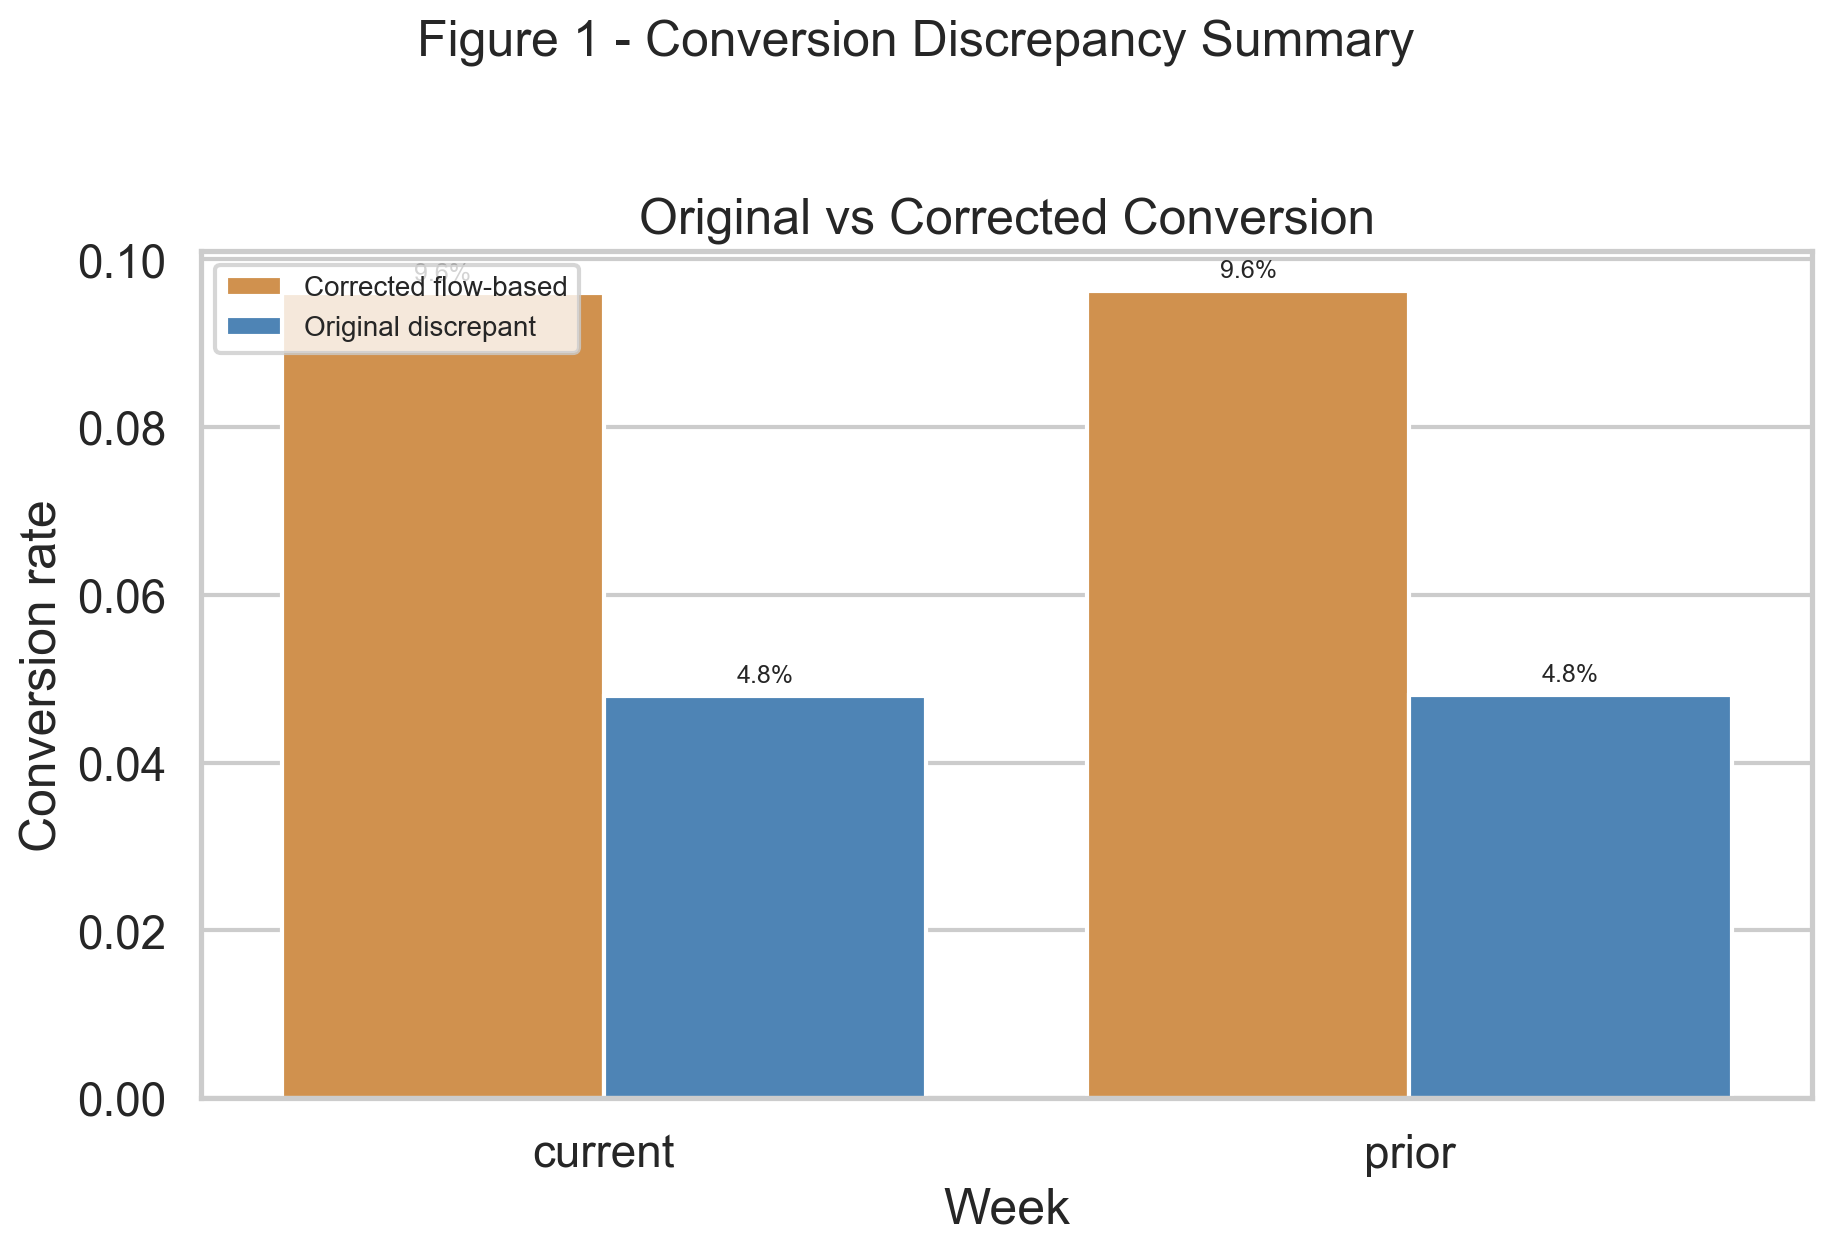
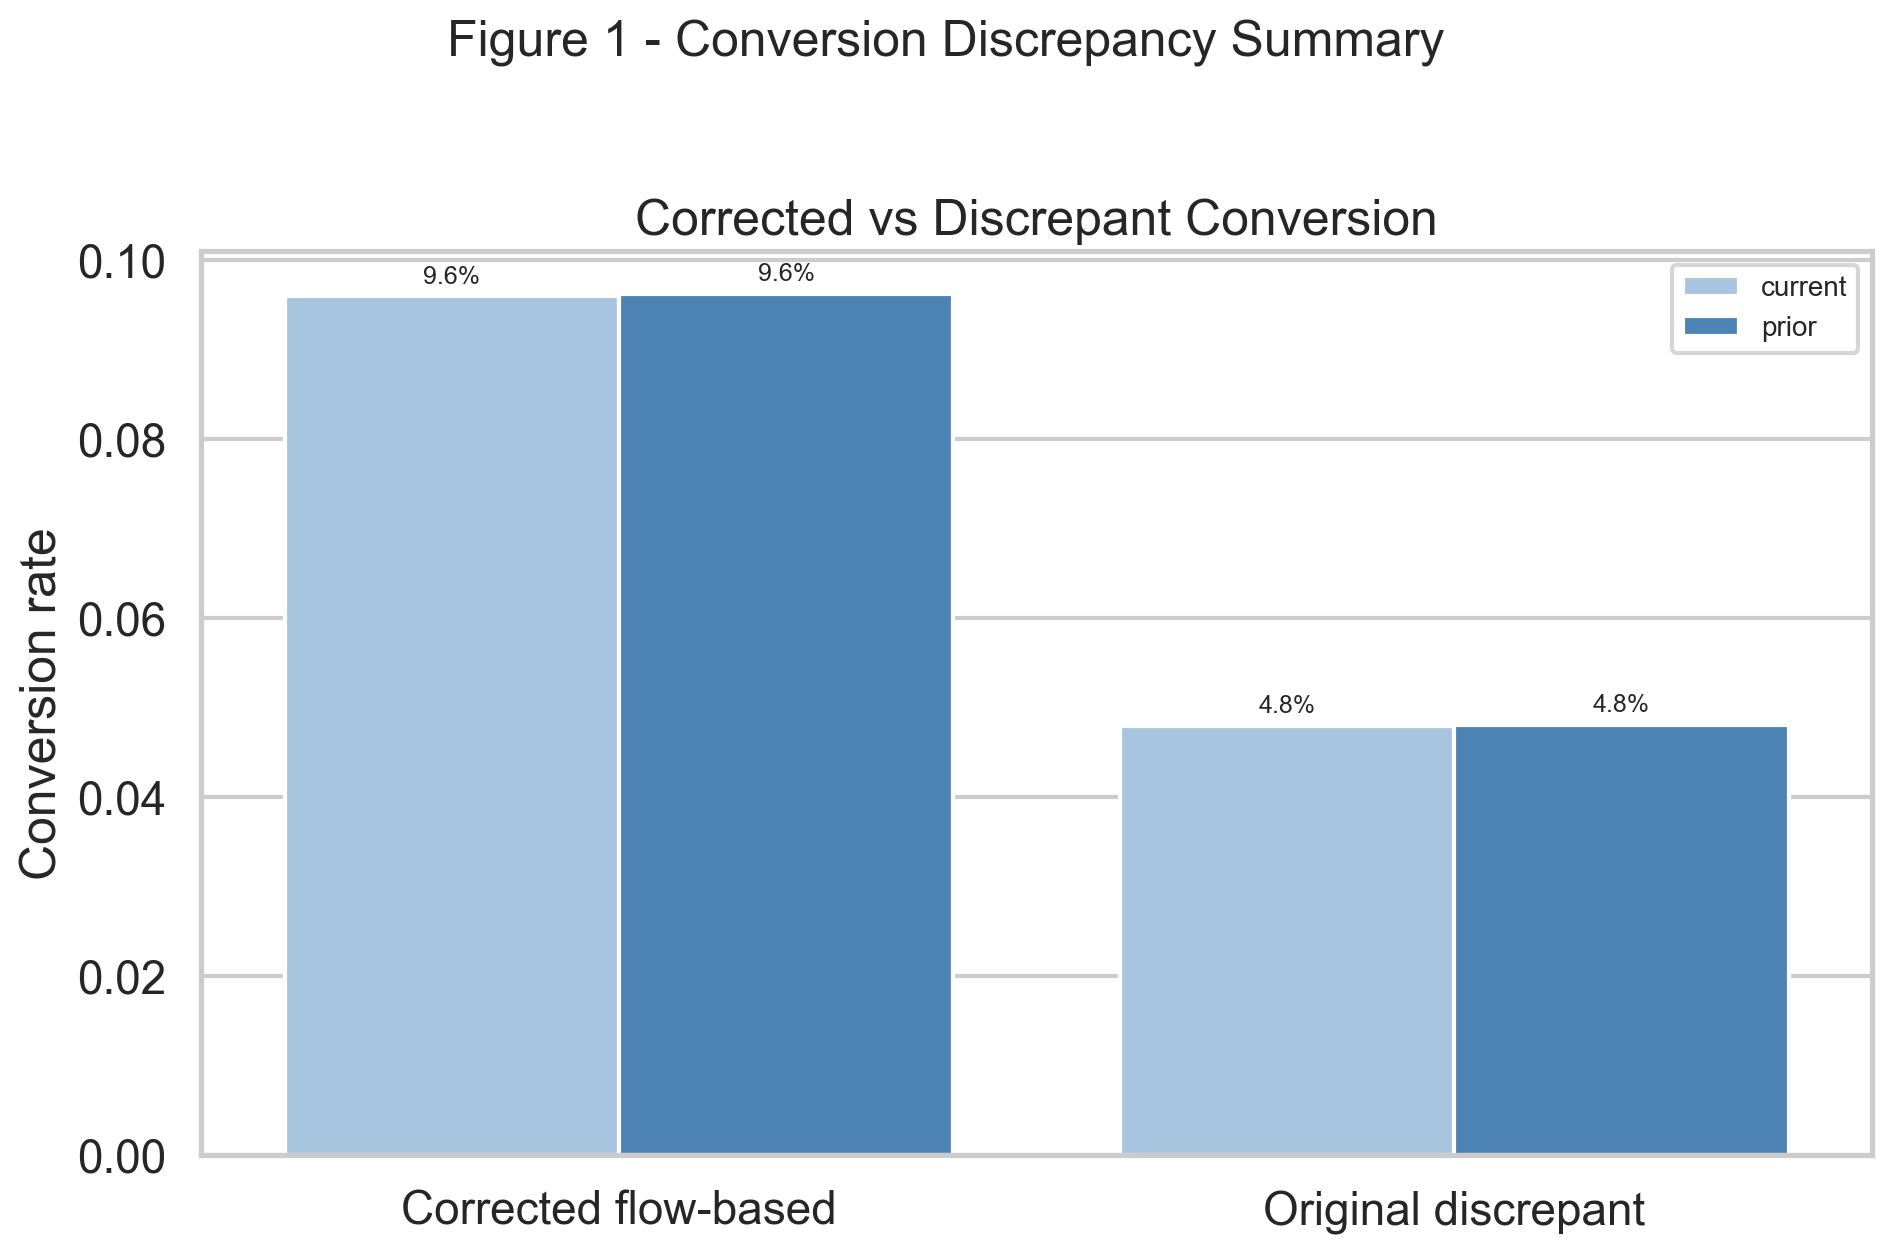
Refactor execution report and visualizations for conversion discrepancy handling, enhancing clarity on conversion comparisons and denominator impacts.

diff --git a/artefacts/analytics_slices/data_analyst/huc/03_conversion_discrepancy_handling/models/build_conversion_discrepancy_handling.py b/artefacts/analytics_slices/data_analyst/huc/03_conversion_discrepancy_handling/models/build_conversion_discrepancy_handling.py
@@ -363,7 +363,7 @@ def main() -> None:
         """,
     )
 
-    fig, ax = plt.subplots(1, 1, figsize=(9.5, 6.2))
+    fig, ax = plt.subplots(1, 1, figsize=(9.8, 6.2))
     summary_plot = before_after_df.loc[
         before_after_df["metric_version"].isin(
             ["original_discrepant_view", "corrected_flow_view"]
@@ -377,16 +377,16 @@ def main() -> None:
     )
     sns.barplot(
         data=summary_plot,
-        x="week_role",
+        x="metric_label",
         y="conversion_rate",
-        hue="metric_label",
-        palette=["#e69138", "#3d85c6"],
+        hue="week_role",
+        palette=["#9fc5e8", "#3d85c6"],
         ax=ax,
     )
-    ax.set_title("Original vs Corrected Conversion")
-    ax.set_xlabel("Week")
+    ax.set_title("Corrected vs Discrepant Conversion")
+    ax.set_xlabel("")
     ax.set_ylabel("Conversion rate")
-    ax.legend(title="", loc="upper left", fontsize=10)
+    ax.legend(title="", loc="upper right", fontsize=10)
     for container in ax.containers:
         ax.bar_label(
             container,
@@ -445,7 +445,12 @@ def main() -> None:
     denominator_plot = pd.DataFrame(
         {
             "week_role": ["current", "current", "prior", "prior"],
-            "denominator": ["flow_rows", "entry_event_rows", "flow_rows", "entry_event_rows"],
+            "denominator": [
+                "Authoritative flow denominator",
+                "Event-row denominator",
+                "Authoritative flow denominator",
+                "Event-row denominator",
+            ],
             "rows_millions": [
                 float(current_row["flow_rows"]) / 1_000_000,
                 float(current_row["entry_event_rows"]) / 1_000_000,

diff --git a/docs/experience_lake/outward-facing-assets/analytics-role-lenses/data_analyst/huc/03_conversion_discrepancy_handling/execution_report.md b/docs/experience_lake/outward-facing-assets/analytics-role-lenses/data_analyst/huc/03_conversion_discrepancy_handling/execution_report.md
@@ -158,7 +158,7 @@ The first figure was designed to answer:
 
 Delivered components:
 - corrected versus discrepant conversion comparison
-- current and prior week side-by-side
+- current and prior week carried as supporting hue rather than the main visual split
 
 The figure makes the core point immediately:
 - the discrepant interpretation halves the apparent conversion rate
@@ -173,7 +173,7 @@ The second figure was designed to answer:
 
 Delivered components:
 - direct visual divergence between the two conversion views
-- denominator comparison between `flow_rows` and `entry_event_rows`
+- denominator comparison between the authoritative flow denominator and the event-row denominator that caused the drift
 
 This is what turns the slice into discrepancy handling rather than only discrepancy display:
 - the figure shows the problem and the mechanism at the same time
@@ -252,15 +252,15 @@ The strongest bounded claim surfaces from this slice are therefore:
 
 Flagship version:
 
-> Strengthened anomaly detection and discrepancy handling in operational reporting, as measured by identifying and correcting a `4.80` percentage point suspicious-to-case conversion gap between linked weekly reporting views, validating the corrected KPI over `1,780,031` current case-opened rows, and embedding `3` repeatable release checks into the rerun workflow, by tracing the mismatch to denominator drift from `flow_rows` to `entry_event_rows`, restoring the flow-based KPI authority rule, and packaging the correction into controlled exception and root-cause evidence outputs.
+> Highlighted, investigated, and resolved a material anomaly in weekly operational reporting, as measured by identifying and correcting a `4.80` percentage point suspicious-to-case conversion gap between linked reporting views, validating the corrected KPI across `1,780,031` current case-opened rows, and embedding `3` repeatable release checks into the rerun workflow, by tracing the non-alignment to denominator drift from `flow_rows` to `entry_event_rows`, restoring the authoritative flow-based KPI rule, and packaging the fix into controlled discrepancy and root-cause evidence outputs.
 
 Shorter recruiter-readable version:
 
-> Improved reporting accuracy and discrepancy handling, as measured by corrected KPI outputs and repeatable release checks around a material weekly conversion mismatch, by investigating unexpected reporting divergence, tracing it to denominator logic drift, and embedding the fix into the recurring workflow.
+> Strengthened anomaly detection and discrepancy handling, as measured by corrected KPI outputs and repeatable release checks around a material weekly conversion mismatch, by spotting when linked reporting views did not align, investigating the cause, and embedding the fix into the recurring workflow.
 
 Closest direct response version:
 
-> Strengthened anomaly detection and discrepancy handling in weekly operational reporting, as measured by validated source consistency, corrected suspicious-to-case conversion output, and introduction of repeatable quality checks, by spotting when linked reporting views did not align, investigating the cause, resolving the issue, and preventing it from undermining reporting quality or decision-making.
+> Strengthened anomaly detection and discrepancy handling in weekly operational reporting, as measured by corrected suspicious-to-case conversion output, validated view-to-view alignment, and introduction of repeatable quality checks, by spotting when linked reporting views did not align, investigating the cause, resolving the discrepancy, and preventing it from undermining reporting quality or decision-making.
 
 ## 11. Bottom Line
 
